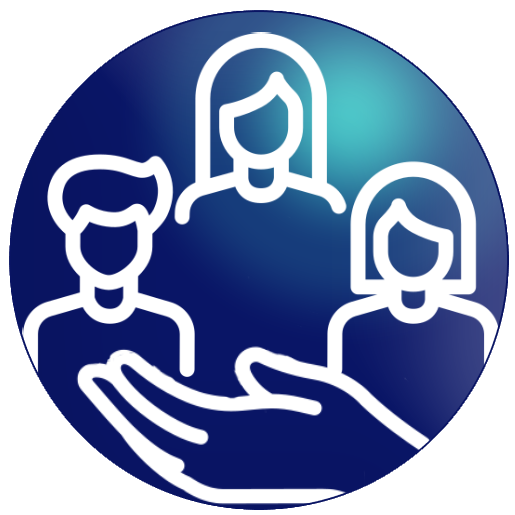
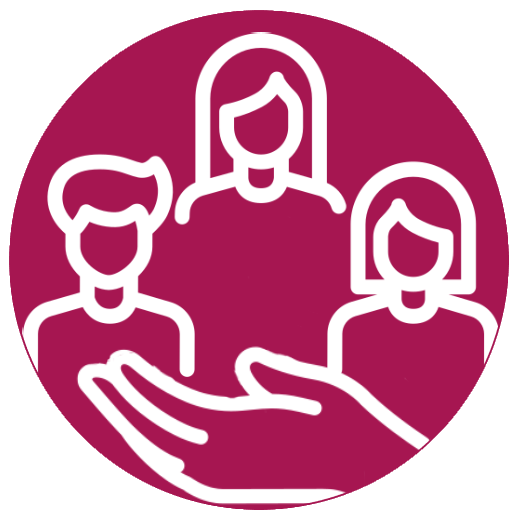
add chart pink color

diff --git a/src/styles/pages/_home.scss b/src/styles/pages/_home.scss
@@ -4,11 +4,12 @@
   grid-template-columns: 60px 1fr 374px;
   overflow: hidden;
   margin: 58px auto 50px;
+  padding: 2% 0 0 0;
   position: relative;
 
   @media screen and(max-width: 990px) {
     grid-template-columns: 60px 1fr;
-    margin: 58px 20px 50px
+    margin: 58px 20px 50px;
   }
 
   @media screen and(max-width: 590px) {
@@ -20,7 +21,7 @@
     .home-header {
       margin: 0 auto 12px;
       text-align: center;
-      
+
       .connection-form {
         background: $color-4;
         border-radius: 20px;
@@ -35,19 +36,19 @@
             cursor: pointer;
             border-radius: 20px;
             padding: 12px 14px;
-            transition: .2s;
+            transition: 0.2s;
             margin: 0 8px;
           }
           .active-btn {
             background: $color-1;
-  
+
             &:hover {
               background: $color-2;
             }
           }
           li:not(.active-btn) {
             &:hover {
-              transform: translateX(3px)
+              transform: translateX(3px);
             }
           }
         }
@@ -58,12 +59,12 @@
             font-size: 1.2rem;
             font-family: $font-2;
             border-radius: 20px;
-  
+
             &:focus {
               box-shadow: 0 0 3px rgba(51, 51, 51, 0.2);
             }
           }
-          input[type=submit] {
+          input[type="submit"] {
             padding: 14px 14px;
             border-radius: 20px;
           }
@@ -79,10 +80,9 @@
     @media screen and(max-width: 990px) {
       display: none;
     }
-  
+
     .right-side-container {
       position: fixed;
-    
     }
   }
 }

diff --git a/src/styles/components/_navbar.scss b/src/styles/components/_navbar.scss
@@ -2,8 +2,8 @@ nav {
   position: fixed;
   width: 100%;
   height: 45px;
-  border-radius: 6px;
-  box-shadow: 18px 1px 0px $color-1, 22px 4px 0px 0px $shadow;
+  //border-radius: 6px;
+  //box-shadow: 18px 1px 0px $color-1, 22px 4px 0px 0px $shadow;
   z-index: 10;
   top: 0;
 
@@ -13,13 +13,13 @@ nav {
 
   &::after {
     content: "";
-    height: 45px;
+    height: 60px;
     width: 110%;
     left: -20px;
     top: 0;
     position: absolute;
     backdrop-filter: blur(3px);
-    background: rgba(255, 255, 255, 0.86);
+    background: $color-1;
     z-index: -8;
   }
 
@@ -27,7 +27,7 @@ nav {
     display: flex;
     width: 100%;
     max-width: 1190px;
-    margin: 0 auto;
+    margin: 5px auto 5px auto;
     justify-content: space-between;
     height: 45px;
     align-items: center;

diff --git a/src/styles/_settings.scss b/src/styles/_settings.scss
@@ -15,10 +15,11 @@ $font-1: "font-1", sans-serif;
 $font-2: "font-2", serif;
 $font-3: "font-3", serif;
 
-$color-1: #ff7b77;
-$color-2: #ffd0c4;
-$color-3: rgb(0, 22, 44);
-$color-4: #fdeeee;
+$color-1: #a61651; //DarkMagenta
+$color-2: #bd2866;
+$color-3: #001b2b;
+$color-4: #efeeee; //Light grey
+$color-5: #001b2b; //DarkBlue
 $black: rgb(40, 40, 40);
 $white: rgb(253, 253, 253);
 $shadow: rgb(219, 218, 218);
@@ -38,7 +39,7 @@ $shadow: rgb(219, 218, 218);
 }
 a,
 a:visited {
-  color: $color-3;
+  color: $color-4;
 }
 input,
 textarea {
